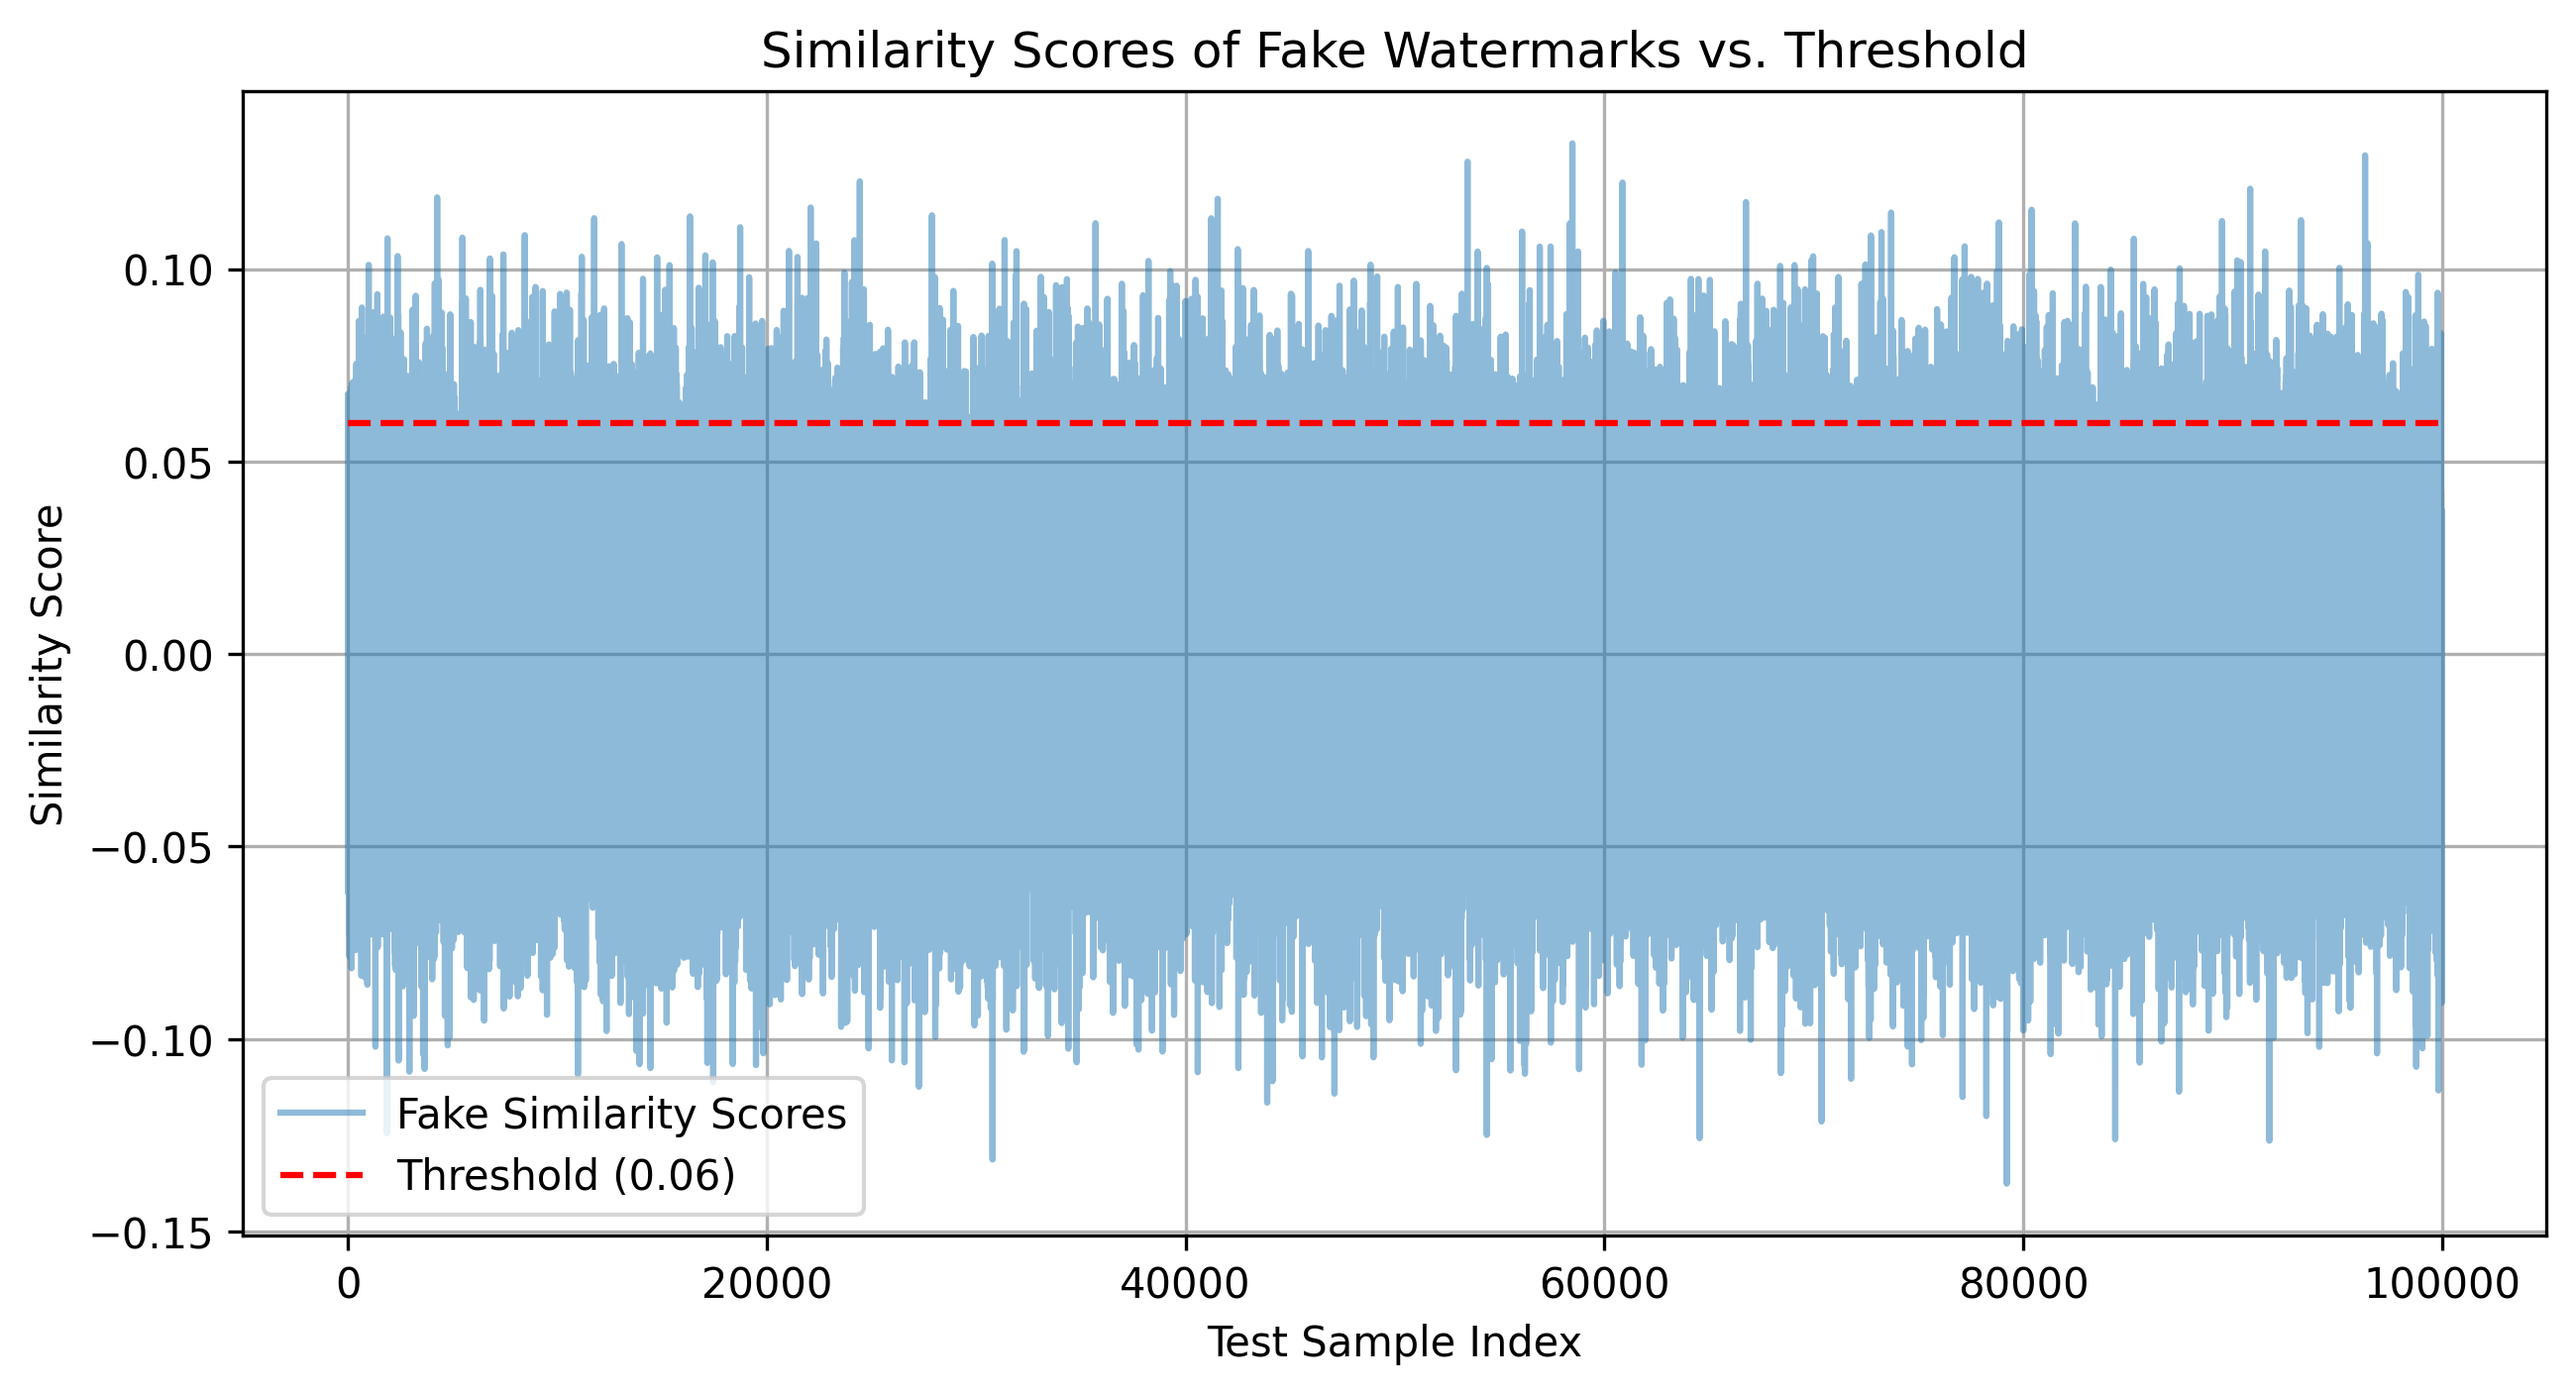
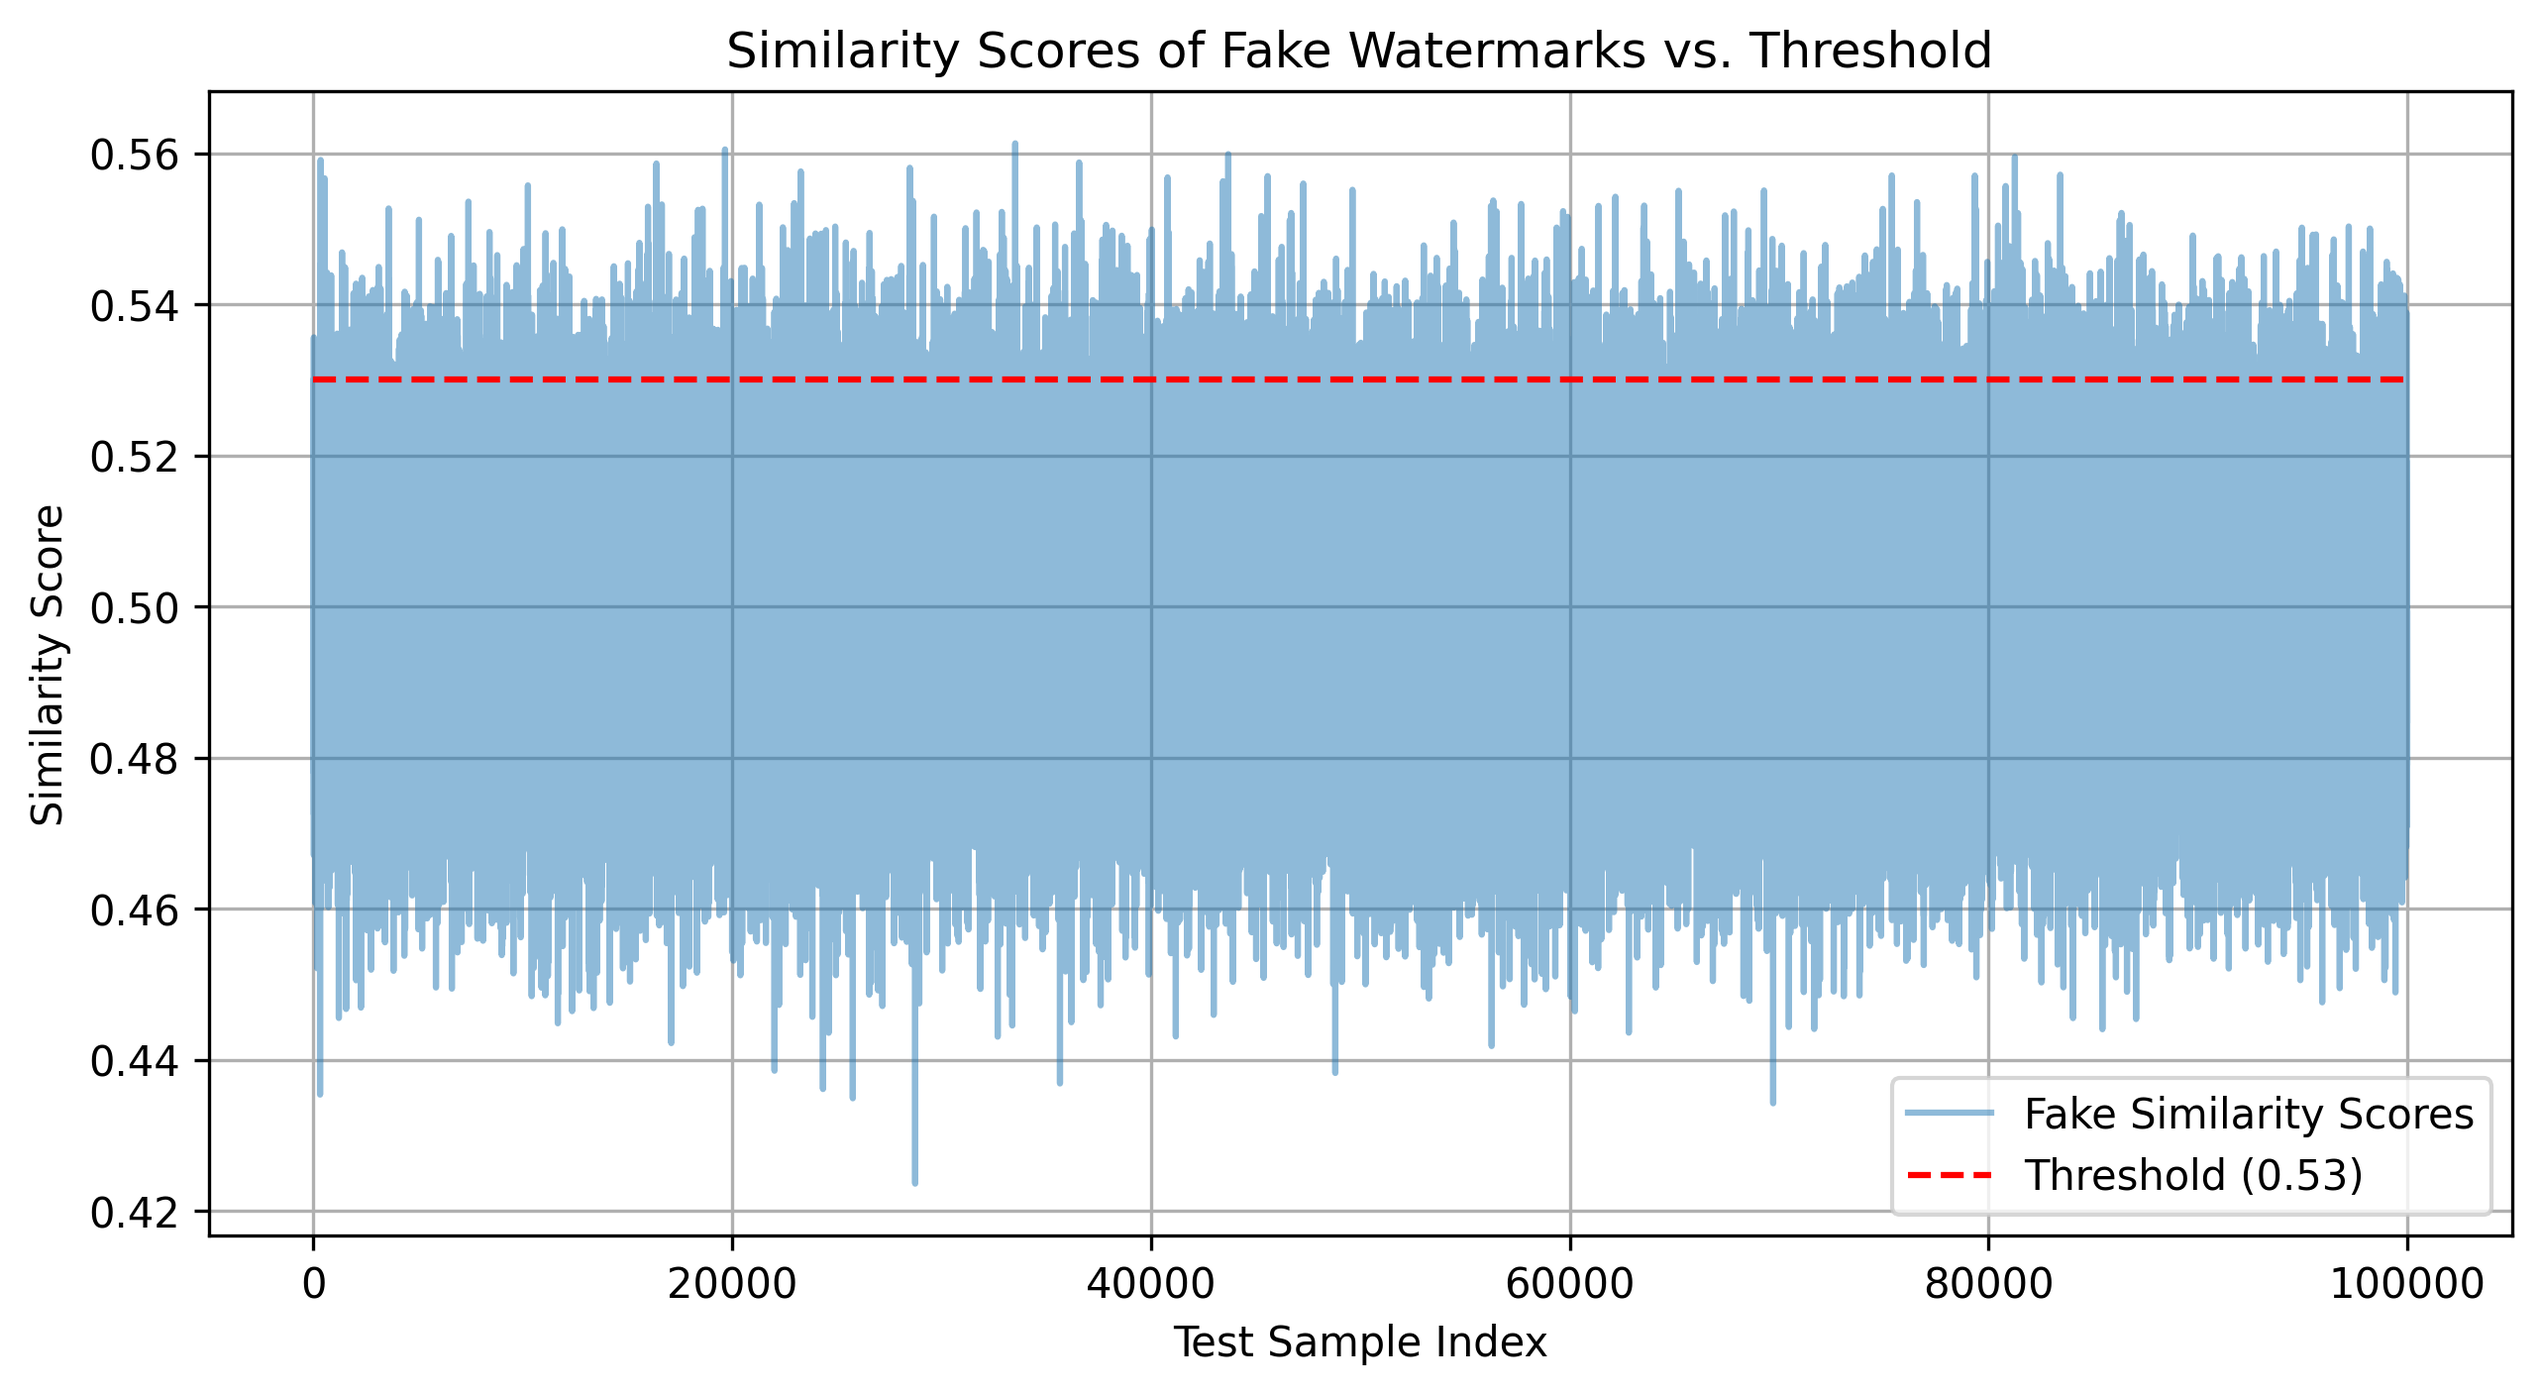
fix: similarity functions return in range [0,1] instead of [-1,+1]

diff --git a/src/main.py b/src/main.py
@@ -292,9 +292,7 @@ def test_false_positives(n_images_to_test=5, n_fakes_per_image=1000):
             # Check similarity
             score = similarity(watermark_fake, watermark_extracted)
 
-            # --- START OF MODIFICATION ---
             all_fake_scores.append(score)  # Store the score
-            # --- END OF MODIFICATION ---
 
             # If the random guess scores higher than our threshold, it's a False Positive
             if score > THRESH:
@@ -384,7 +382,7 @@ def test_attacks_manually():
 
 
 if __name__ == "__main__":
-    # full_workflow_parallel(max_workers=10)
-    test_attacks_manually()
+    full_workflow_parallel(max_workers=10)
+    # test_attacks_manually()
     # roc_curve()
     # test_false_positives(n_images_to_test=100)

diff --git a/src/detect.py b/src/detect.py
@@ -52,4 +52,8 @@ def similarity(watermark_1, watermarked_2):
         np.sqrt(np.sum(np.multiply(watermark_1, watermark_1)))
         * np.sqrt(np.sum(np.multiply(watermarked_2, watermarked_2)))
     )
-    return s
+
+    # Rescales the result from [-1, 1] to [0, 1]
+    res = (s + 1) / 2
+    return res
+    # return s

diff --git a/src/roc.py b/src/roc.py
@@ -9,7 +9,7 @@ from detect import extract_watermark, similarity
 from embed import EmbeddingStrategy, EmbedParameters, embed_watermark
 from constraints import ALPHA, MARK_SIZE
 
-N_ATTACKS = 2
+N_ATTACKS = 10
 """The number of randomized attacks to make per every image"""
 
 

diff --git a/src/constraints.py b/src/constraints.py
@@ -4,7 +4,7 @@ MARK_SIZE = 1024
 ALPHA = 1.0
 """The alpha value used when embedding and decoding"""
 
-THRESH = 0.06
+THRESH = 0.54
 """Threshold value used to determine if a detected watermark is valid or not"""
 
 INPUT_DIR = "input"
